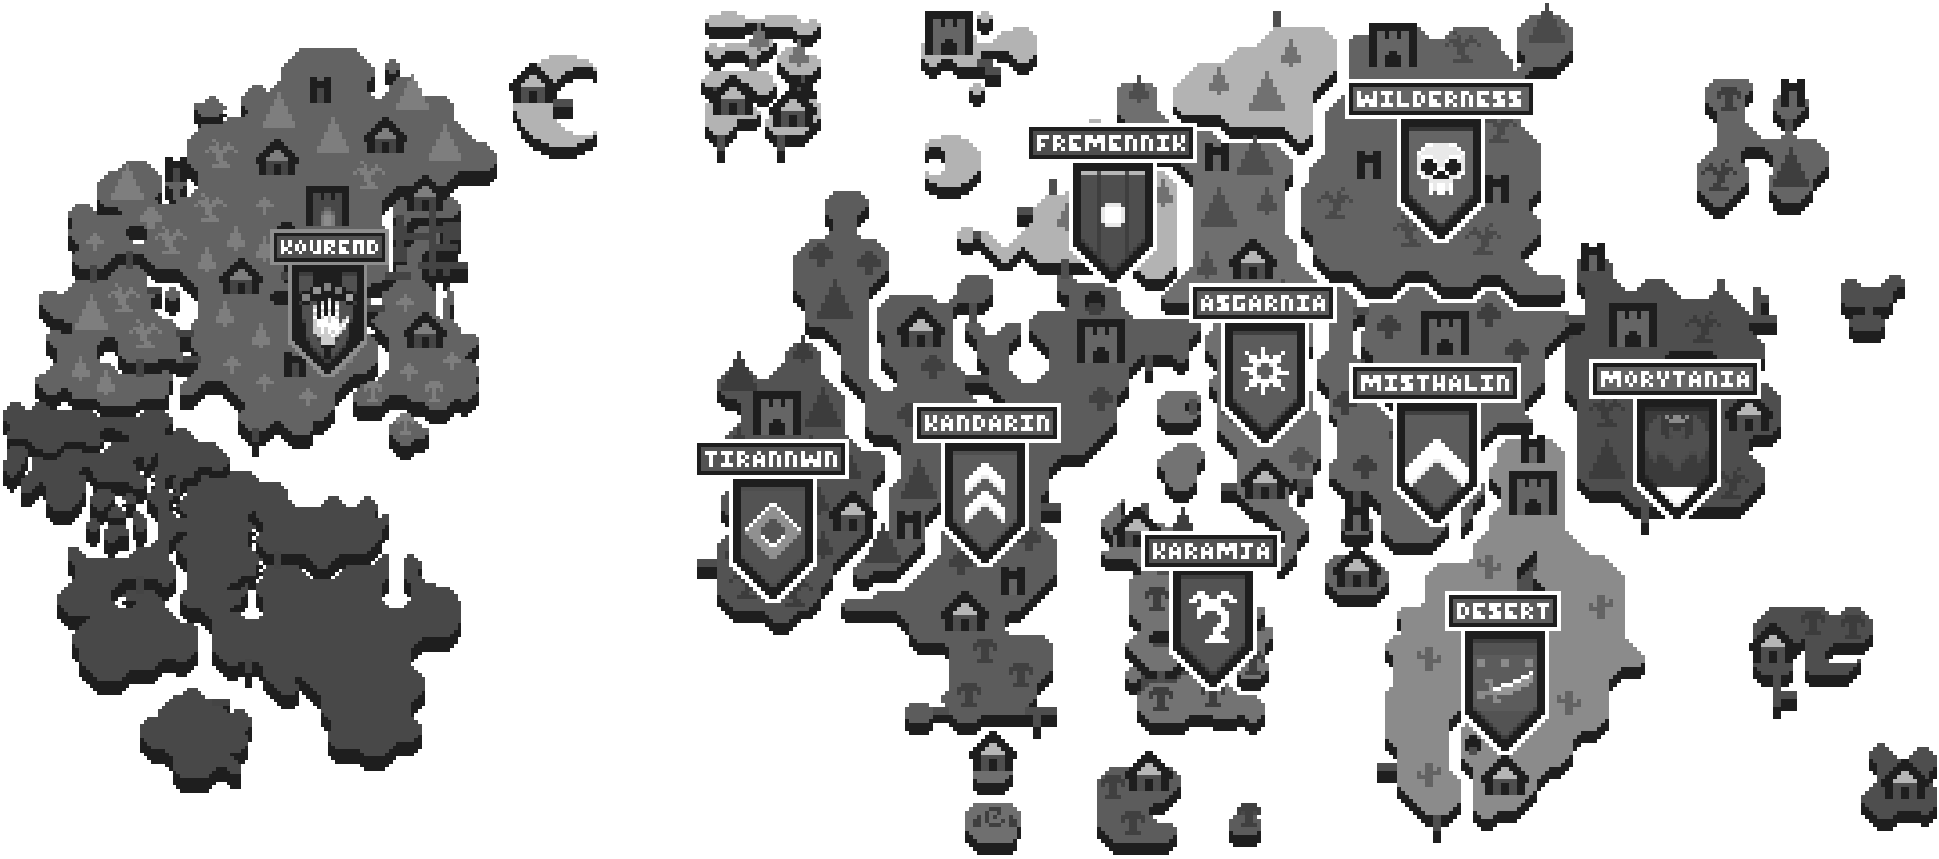
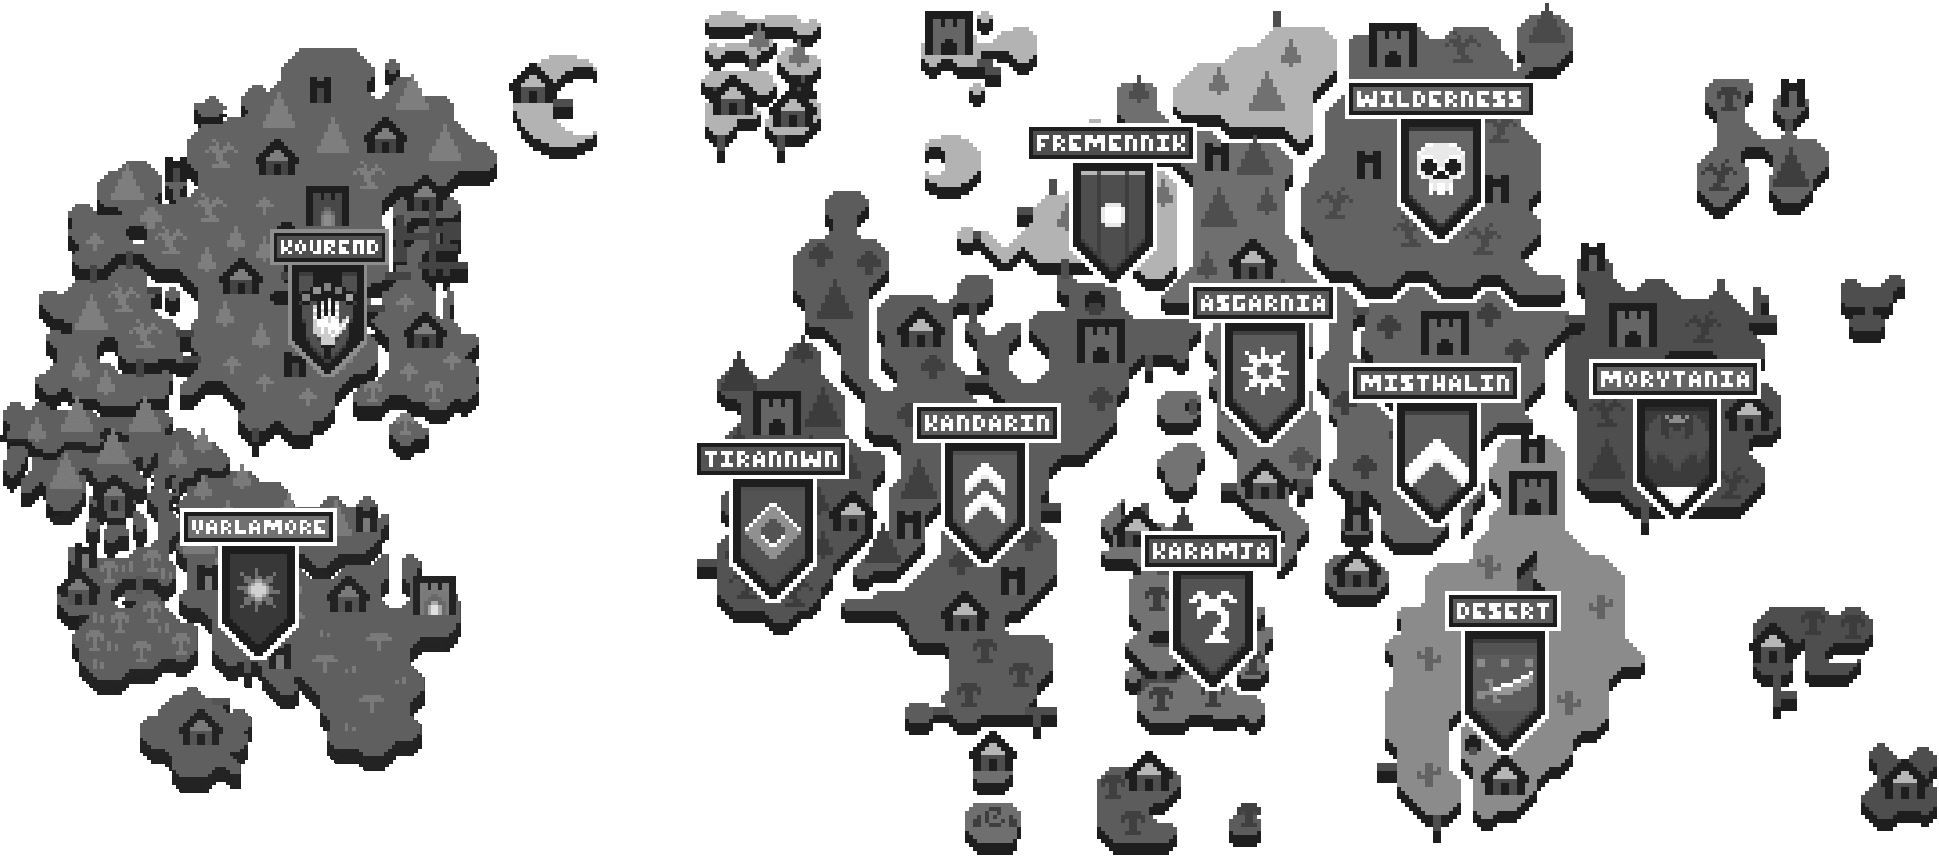
Updated whole region map to include unselectd varlamore. Edited kourend map to remove colouring of varlamore. Added new map for varlamore to colour when selected.

Changed region(s): [[0.0, 0.454, 0.2476, 0.787], [0.0928, 0.8172, 0.1238, 0.8778], [0.1857, 0.787, 0.2166, 0.8172]]

diff --git a/src/data/regions.js b/src/data/regions.js
@@ -113,7 +113,7 @@ export const LEAGUES_REGIONS = [
     id: 10,
     label: 'Varlamore',
     icon: images['task-varlamore.png'],
-    map: null,
+    map: images['map-varlamore.png'],
     infographic: images['info-varlamore.png'],
     isDefaultUnlock: false,
     questUnlocks: [],
